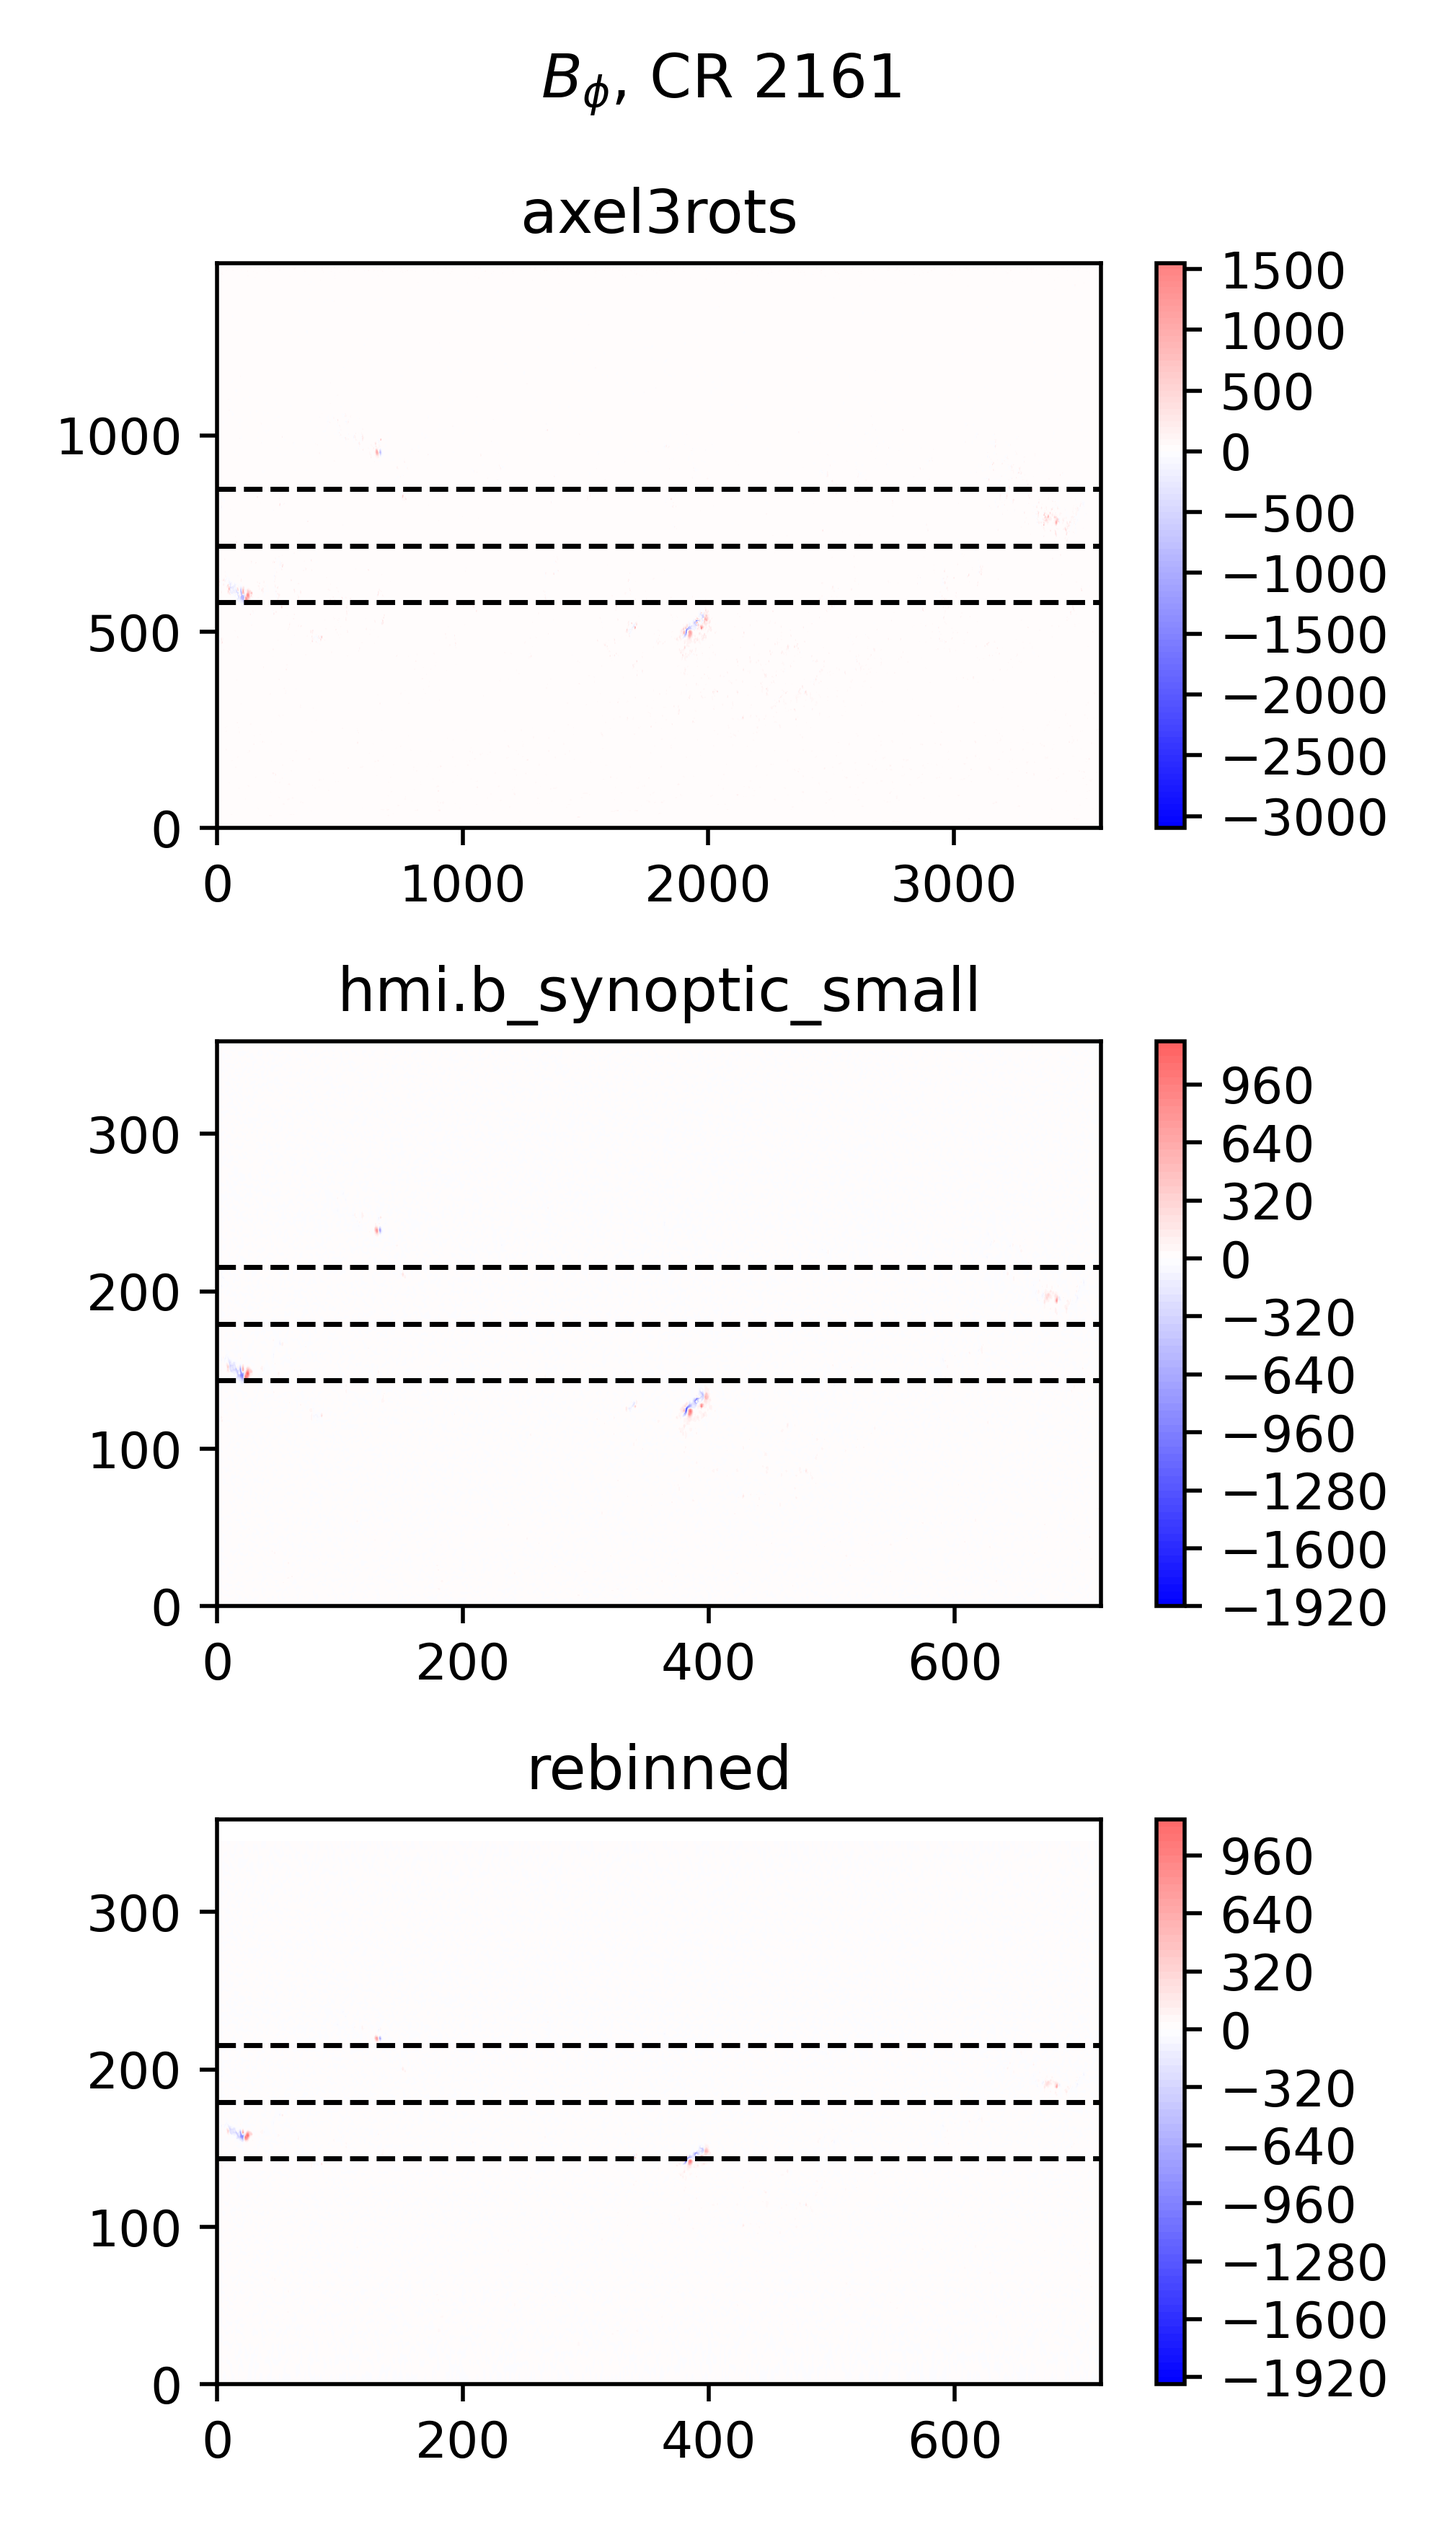
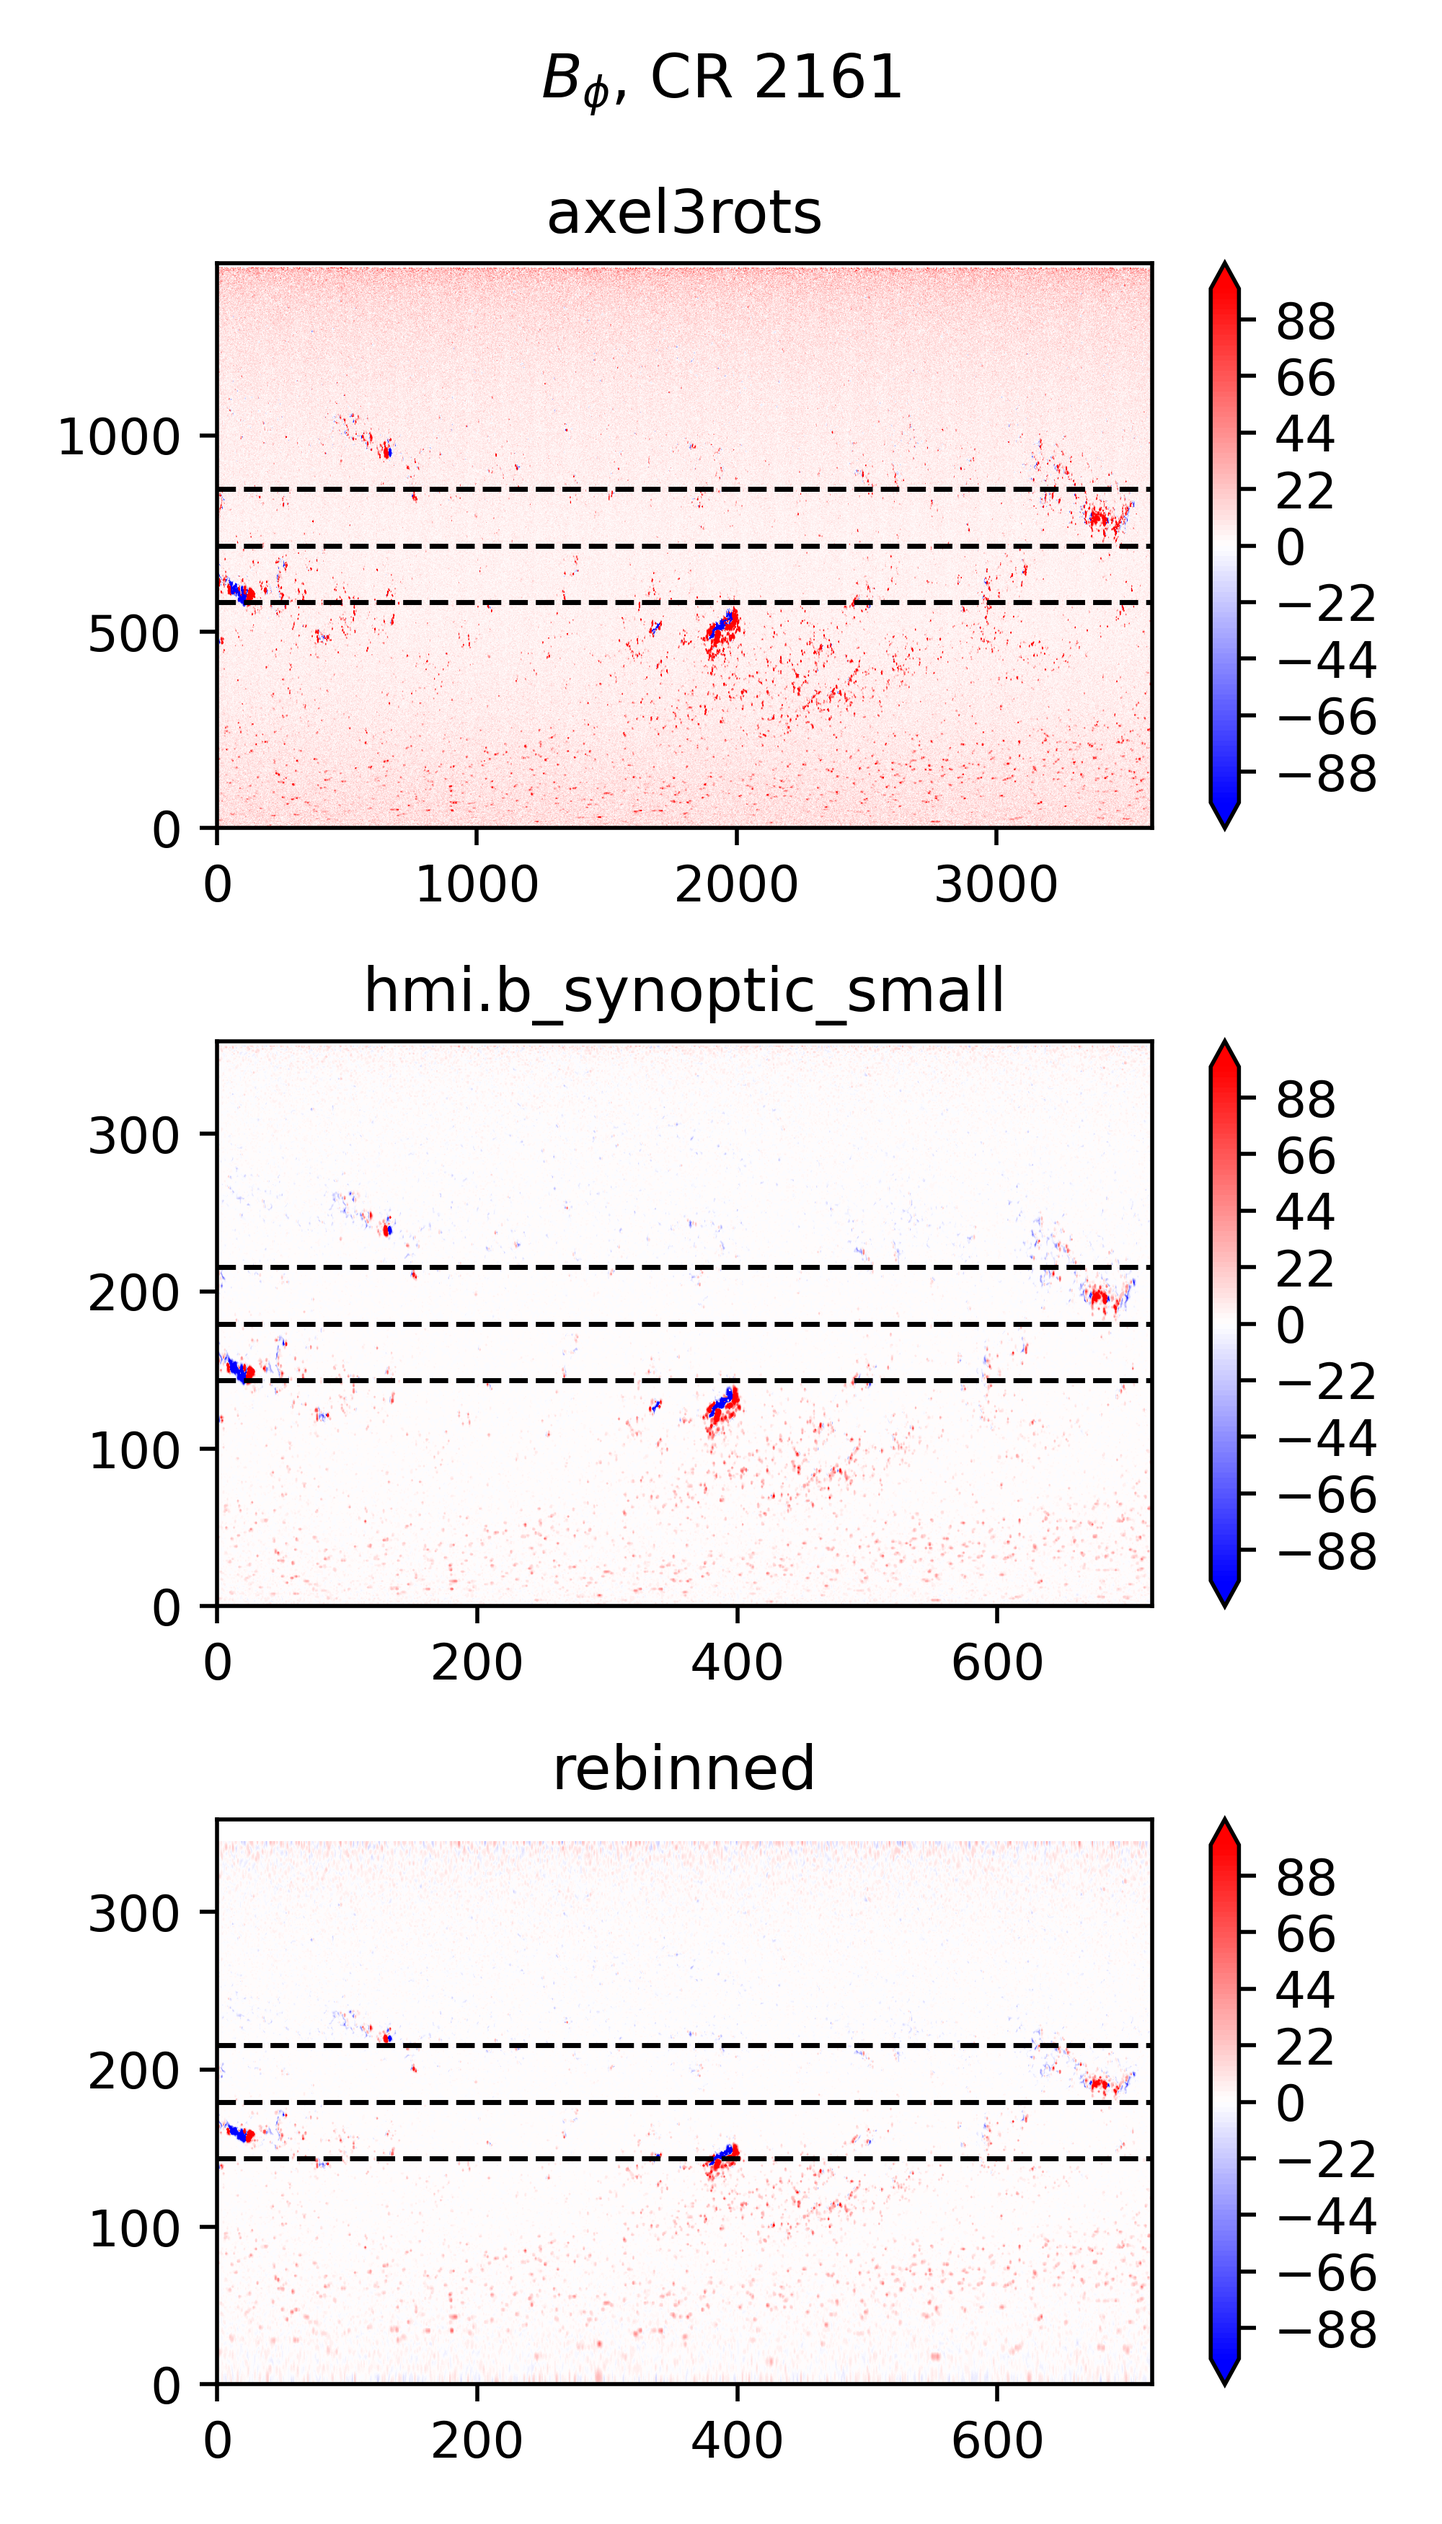
what_is_axel3rots: tweak plot limits to make more readable

diff --git a/archaeology/what_is_axel3rots_BPS17.py b/archaeology/what_is_axel3rots_BPS17.py
@@ -23,8 +23,10 @@ axs[2].set_title("rebinned")
 fig.suptitle(r"$B_\phi$, CR 2161")
 
 for data, ax in zip([bp2161_petrie, bp2161, bp2161_rebin], axs):
-	im = ax.contourf(data, cmap='bwr', levels=100)
-	im.set_clim(np.array([-1,1])*np.max(np.abs(im.get_clim())))
+	vmin = -100
+	vmax = 100
+	levels = np.linspace(vmin,vmax,101)
+	im = ax.contourf(data, cmap='bwr', levels=levels, vmin=vmin, vmax=vmax, extend='both')
 	c = plt.colorbar(im, ax=ax)
 	nlat, nlon = np.shape(data)
 	
